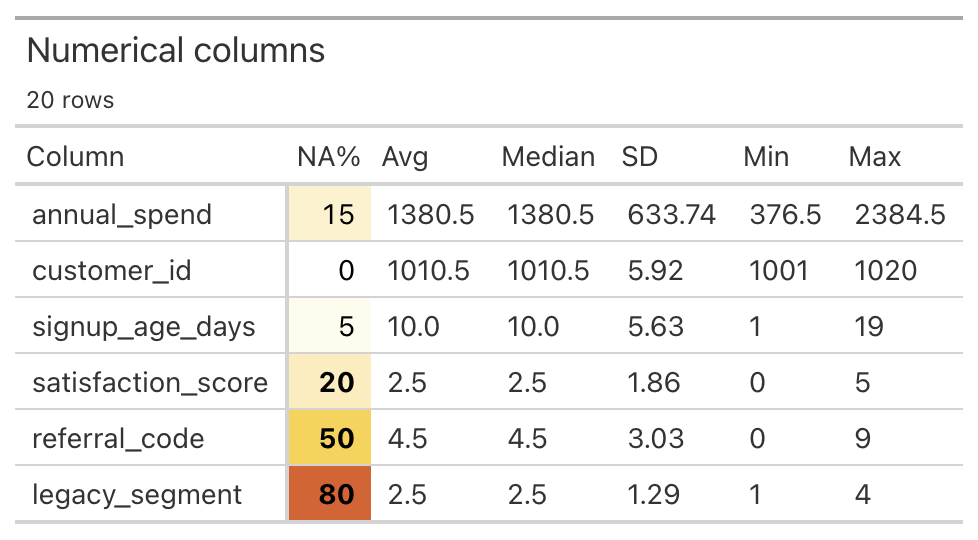
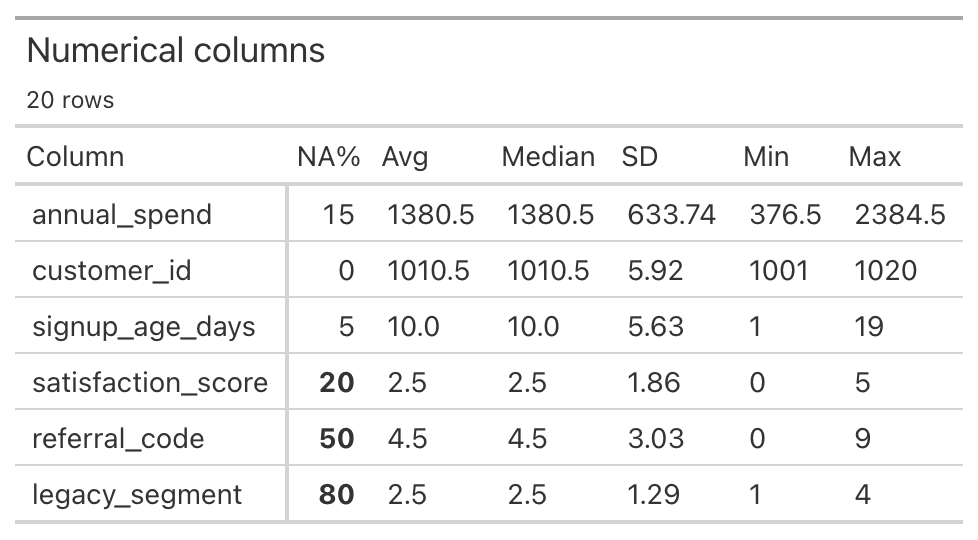
Use a shorter GT option and quieter styling

diff --git a/src/showstats/showstats.py b/src/showstats/showstats.py
@@ -20,7 +20,7 @@ from showstats._table import (
 if TYPE_CHECKING:
     from great_tables import GT
 
-Output = Literal["text", "gt"]
+Out = Literal["text", "gt"]
 
 
 def _build_tables(
@@ -44,7 +44,7 @@ def show_stats(
     top_cols: list[str] | str | None = None,
     quantiles: list[float] | None = None,
     fold_quantiles: bool = True,
-    output: Output = "text",
+    out: Out = "text",
 ) -> None | GT | dict[str, GT]:
     """
     Show compact summary statistics for the given frame.
@@ -68,32 +68,30 @@ def show_stats(
             statistic under two names. Set to False to keep Min/Max/Median as
             separate columns, which keeps the column names stable regardless of
             which quantiles are requested. Defaults to True.
-        output (str): Use ``"text"`` for the compact terminal table, or
+        out (str): Use ``"text"`` for the compact terminal table, or
             ``"gt"`` for a styled Great Tables object. ``table_type="all"``
             returns one Great Tables object per nonempty section. Defaults to
             ``"text"``.
     Raises:
         ValueError: If the input DataFrame has no rows or columns, or if a
             requested quantile is outside [0, 1], or if output is unsupported.
-        ImportError: If ``output="gt"`` is requested without the optional
+        ImportError: If ``out="gt"`` is requested without the optional
             ``gt`` extra installed.
 
     Note:
         - Text output uses a fixed-width table with left-aligned cells.
-        - Great Tables output colors ``NA%`` from white to red and uses bold
-          text for values of 20 percent or more.
+        - Great Tables output uses bold text for ``NA%`` values of 20 percent
+          or more.
         - For large DataFrames (>100,000 rows), the row count is displayed in scientific notation.
         - Datetime columns are formatted as strings in the output.
     """
-    if output not in get_args(Output):
-        raise ValueError(
-            f"output {output!r} not supported; expected one of {get_args(Output)}"
-        )
+    if out not in get_args(Out):
+        raise ValueError(f"out {out!r} not supported; expected one of {get_args(Out)}")
 
     tables, config, num_rows = _build_tables(
         df, table_type, top_cols, quantiles, fold_quantiles
     )
-    if output == "gt":
+    if out == "gt":
         from showstats._gt import make_gt_tables
 
         return make_gt_tables(tables, config, num_rows)

diff --git a/tests/test_gt.py b/tests/test_gt.py
@@ -31,15 +31,15 @@ MISSING = {
     ],
 )
 def test_gt_output_supports_input_backends(frame, capsys):
-    result = show_stats(frame, table_type="num", output="gt")
+    result = show_stats(frame, table_type="num", out="gt")
 
     assert isinstance(result, GT)
     assert capsys.readouterr().out == ""
     html = result.as_raw_html()
     assert "Numerical columns" in html
     assert "10 rows" in html
-    assert "background-color: #fdf6df" in html
-    assert "background-color: #fbedbf; font-weight: bold" in html
+    assert '<td class="gt_row gt_right">10</td>' in html
+    assert '<td style="font-weight: bold;" class="gt_row gt_right">20</td>' in html
 
 
 def test_gt_output_returns_one_table_per_section(capsys):
@@ -52,7 +52,7 @@ def test_gt_output_returns_one_table_per_section(capsys):
         schema={"number": pl.Int64, "category": pl.String, "date": pl.Date},
     )
 
-    result = show_stats(frame, output="gt")
+    result = show_stats(frame, out="gt")
 
     assert list(result) == ["time", "num", "cat"]
     assert all(isinstance(table, GT) for table in result.values())
@@ -60,7 +60,7 @@ def test_gt_output_returns_one_table_per_section(capsys):
 
 
 def test_gt_output_returns_none_for_an_empty_section():
-    result = show_stats(pl.DataFrame({"category": ["a"]}), "num", output="gt")
+    result = show_stats(pl.DataFrame({"category": ["a"]}), "num", out="gt")
 
     assert result is None
 
@@ -69,4 +69,4 @@ def test_gt_output_explains_how_to_install_the_extra(monkeypatch):
     monkeypatch.setitem(sys.modules, "great_tables", None)
 
     with pytest.raises(ImportError, match=r'uv add "showstats\[gt\]"'):
-        show_stats(pl.DataFrame({"number": [1]}), "num", output="gt")
+        show_stats(pl.DataFrame({"number": [1]}), "num", out="gt")

diff --git a/src/showstats/_gt.py b/src/showstats/_gt.py
@@ -40,13 +40,6 @@ def make_gt_table(table: nw.DataFrame, table_type: str, num_rows: int):
         GT(table.to_native(), rowname_col="Col")
         .tab_header(title=titles[table_type], subtitle=f"{row_count(num_rows)} rows")
         .tab_stubhead(label="Column")
-        .data_color(
-            columns="NA%",
-            palette=["#FFFFFF", "#F4D35E", "#B91C1C"],
-            domain=[0, 100],
-            autocolor_text=True,
-            truncate=True,
-        )
         .opt_align_table_header(align="left")
         .tab_options(
             table_font_size="14px",

diff --git a/tests/test_public_api.py b/tests/test_public_api.py
@@ -103,5 +103,5 @@ def test_public_api_rejects_out_of_range_quantiles(api):
 
 
 def test_show_stats_rejects_an_invalid_output():
-    with pytest.raises(ValueError, match="output 'html' not supported"):
-        show_stats(MIXED, output="html")
+    with pytest.raises(ValueError, match="out 'html' not supported"):
+        show_stats(MIXED, out="html")

diff --git a/changelog.md b/changelog.md
@@ -9,10 +9,9 @@ and this project adheres to [Semantic Versioning](https://semver.org/spec/v2.0.0
 
 ### Added
 
-- `show_stats(..., output="gt")` returns styled Great Tables output. Great
-  Tables is available through the optional `gt` extra. The `NA%` cells use a
-  white to red color scale, and values of 20 percent or more use bold text
-  (#103).
+- `show_stats(..., out="gt")` returns styled Great Tables output. Great Tables
+  is available through the optional `gt` extra. `NA%` values of 20 percent or
+  more use bold text (#103).
 - Lazy frames are accepted. `show_stats(df.lazy())` used to raise
   `TypeError: Cannot only use eager_only ... with polars.LazyFrame`; the
   schema is read once and used to build the summary plan. Scalar statistics

diff --git a/README.md b/README.md
@@ -72,15 +72,14 @@ show_stats(pd.read_csv("docs/data/seattle-weather.csv")[["temp_max", "wind"]])
 
 Install the optional output package with `uv add "showstats[gt]"`. The
 `gt` output returns a Great Tables object that displays as HTML in a
-notebook. The missing percentage uses a white to red scale, and values
-of 20 percent or more use bold text.
+notebook. Missing percentages of 20 percent or more use bold text.
 
 ``` python
-table = show_stats(df, "num", output="gt")
+table = show_stats(df, "num", out="gt")
 table
 ```
 
-![Great Tables output with colored missing
+![Great Tables output with bold missing
 percentages](docs/images/gt-output.png)
 
 - **showstats** works with any data frame
